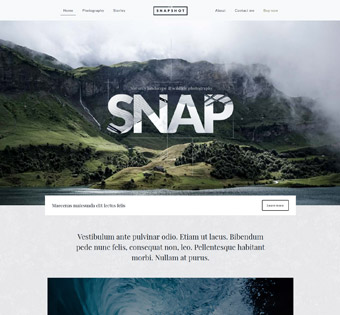
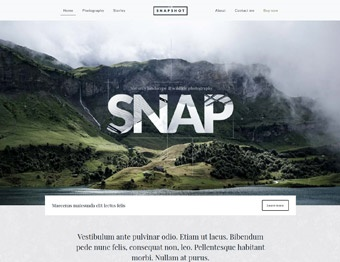
LOADING SCREEN

diff --git a/css/main.css b/css/main.css
@@ -1,7 +1,7 @@
 /*
 * ----------------------------------------------------------------------------------
 Author       : Evenows
-Template Name: Magic Ows - Portfolio Template
+Template Name: Evenows - Portfolio Template
 Version      : 1.0
 * ----------------------------------------------------------------------------------
 */
@@ -9,17 +9,18 @@ Version      : 1.0
 /*
 * ----------------------------------------------------------------------------------
 * 01.General Style
-* 02.Header
-* 03.Our services
-* 04.About Our
-* 05.Our Skills
-* 06.Portfolio
-* 07.Quote
-* 08.the team members
-* 09.Our Blog
-* 10.Newsletter
-* 11.Contact US
-* 12.Footer
+* 02.Loading
+* 03.Header
+* 04.Our services
+* 05.About Our
+* 06.Our Skills
+* 07.Portfolio
+* 08.Quote
+* 09.the team members
+* 10.Our Blog
+* 11.Newsletter
+* 12.Contact US
+* 13.Footer
 * ----------------------------------------------------------------------------------
 */
 
@@ -194,6 +195,56 @@ ul {
 	top: 0;
 	left: 0;
 	right: 0;
+}
+/* =================================================================================
+ * Loading
+ * ================================================================================= */
+.loading_overlay {
+	background: rgba(250, 240, 255, 1);
+	position: fixed;
+	top: 0;
+	left: 0;
+	width: 100%;
+	height: 100%;
+	z-index: 1000000000;
+}
+.spinner {
+	margin: 0 auto;
+	width: 70px;
+	text-align: center;
+	top: 50%;
+	position: relative;
+	transform: translateY(-50%);
+}
+.spinner > div {
+	width: 18px;
+	height: 18px;
+	background-color: rgb(201, 203, 206);
+	border-radius: 100%;
+	display: inline-block;
+	-webkit-animation: sk-bouncedelay 1.4s infinite ease-in-out both;
+	animation: sk-bouncedelay 1.4s infinite ease-in-out both;
+}
+.spinner .bounce1 {
+	-webkit-animation-delay: -0.32s;
+	animation-delay: -0.32s;
+}
+.spinner .bounce2 {
+	-webkit-animation-delay: -0.16s;
+	animation-delay: -0.16s;
+}
+@-webkit-keyframes sk-bouncedelay {
+	0%, 80%, 100% { -webkit-transform: scale(0) }
+	40% { -webkit-transform: scale(1.0) }
+}
+@keyframes sk-bouncedelay {
+	0%, 80%, 100% { 
+		-webkit-transform: scale(0);
+		transform: scale(0);
+	} 40% { 
+		-webkit-transform: scale(1.0);
+		transform: scale(1.0);
+	}
 }
 /* =================================================================================
  * Header

diff --git a/js/main.js b/js/main.js
@@ -1,7 +1,7 @@
 /*
 * ----------------------------------------------------------------------------------
 Author       : Evenows
-Template Name: Magic Ows - Portfolio Template
+Template Name: Evenows - Portfolio Template
 Version      : 1.0
 * ----------------------------------------------------------------------------------
 */
@@ -347,5 +347,15 @@ $(document).ready(function(){
       }
     }
     $("#subject").val(str);
+  });
+});
+/* =================================================================================
+ * Loading Screen
+ * ================================================================================= */
+$(window).on('load', function () {
+  $(".loading_overlay .spinner").fadeOut(2000, function () {
+      $(this).parent().fadeOut(2000, function () {
+        $(this).remove();
+      });
   });
 });

diff --git a/index.php b/index.php
@@ -6,7 +6,7 @@
 	<meta name="viewport" content="width=device-width, initial-scale=1, shrink-to-fit=no">
 	<meta http-equiv="x-ua-compatible" content="ie=edge">
 	<!-- page title -->
-	<title>Magic Ows Inc</title>
+	<title>Evenows Inc</title>
 	<!-- shortcut icon -->
 	<link href="img/shortcut_icon.ico" rel="shortcut icon">
 	<!-- bootstrap css  -->
@@ -29,6 +29,15 @@
 	<![endif]-->
   </head>
   <body>
+  	<!-- start section loading -->
+  	<section class="loading_overlay">
+		<div class="spinner">
+		  <div class="bounce1"></div>
+		  <div class="bounce2"></div>
+		  <div class="bounce3"></div>
+		</div>
+  	</section>
+  	<!-- end section loading -->
   	<!-- start header -->
 	<header>
 		<!-- start navigation bar -->
